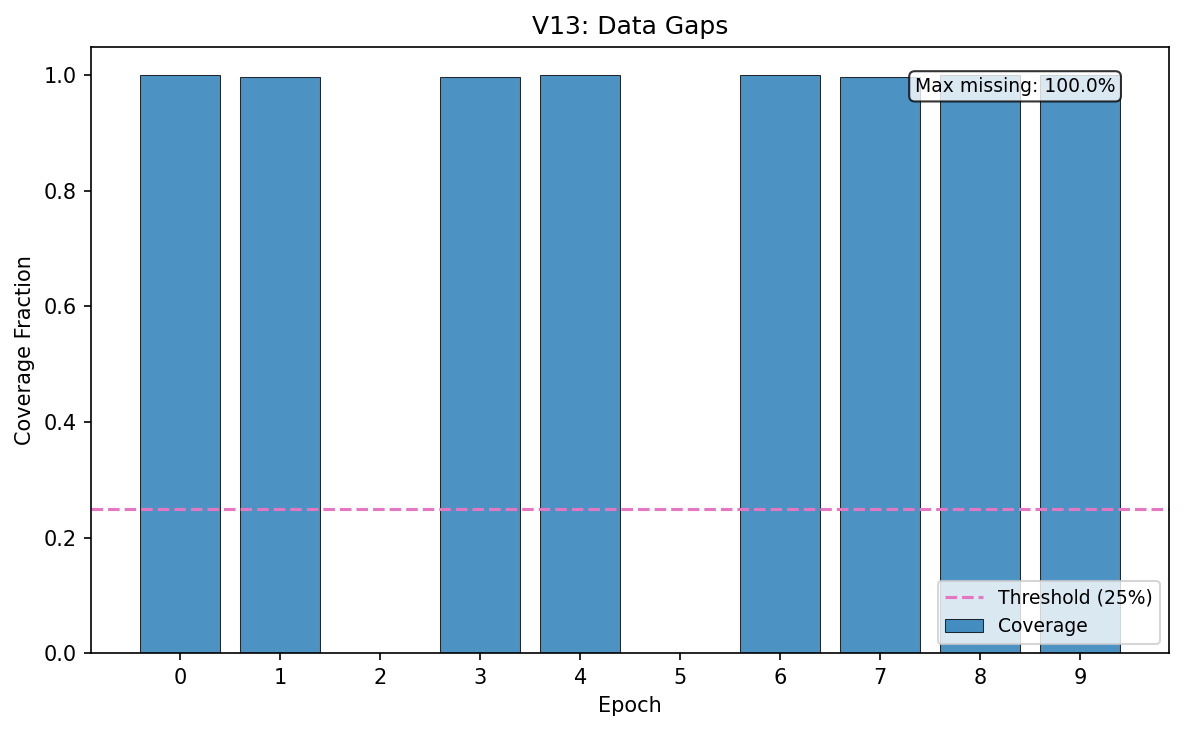
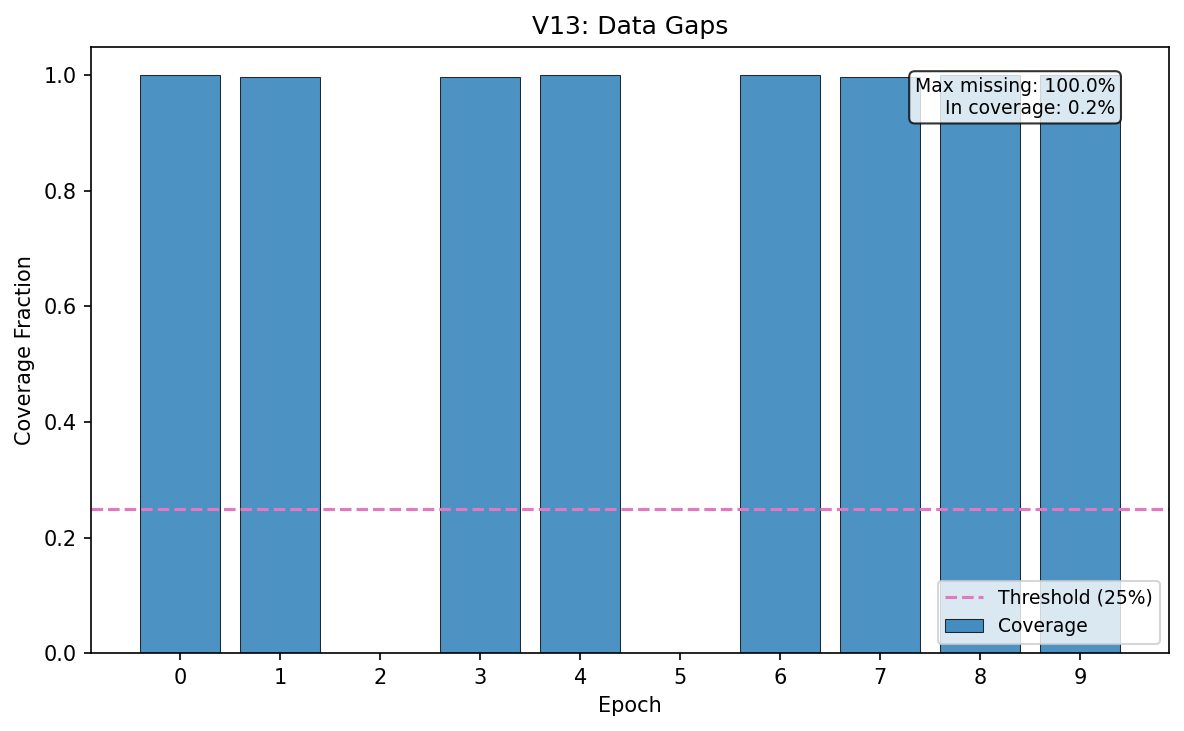
Align tutorial plots with narrative

Changed region(s): [[0.75, 0.1204, 0.9688, 0.1806]]

diff --git a/src/bittr_tess_vetter/plotting/false_alarm.py b/src/bittr_tess_vetter/plotting/false_alarm.py
@@ -146,10 +146,35 @@ def plot_data_gaps(
         # Annotate maximum missing fraction if requested
         if annotate_max and len(coverage) > 0:
             max_missing = 1.0 - min(coverage)
+
+            # Prefer metric-based summaries when available (they may refer to the
+            # full evaluation set, not just the subset used for plotting).
+            missing_all = None
+            missing_in_cov = None
+            if result.metrics:
+                ma = result.metrics.get("missing_frac_max")
+                mic = result.metrics.get("missing_frac_max_in_coverage")
+                if ma is not None:
+                    try:
+                        missing_all = float(ma)
+                    except (TypeError, ValueError):
+                        missing_all = None
+                if mic is not None:
+                    try:
+                        missing_in_cov = float(mic)
+                    except (TypeError, ValueError):
+                        missing_in_cov = None
+
+            if missing_all is None:
+                missing_all = max_missing
+
+            txt = [f"Max missing: {missing_all:.1%}"]
+            if missing_in_cov is not None:
+                txt.append(f"In coverage: {missing_in_cov:.1%}")
             ax.text(
                 0.95,
                 0.95,
-                f"Max missing: {max_missing:.1%}",
+                "\n".join(txt),
                 transform=ax.transAxes,
                 ha="right",
                 va="top",
